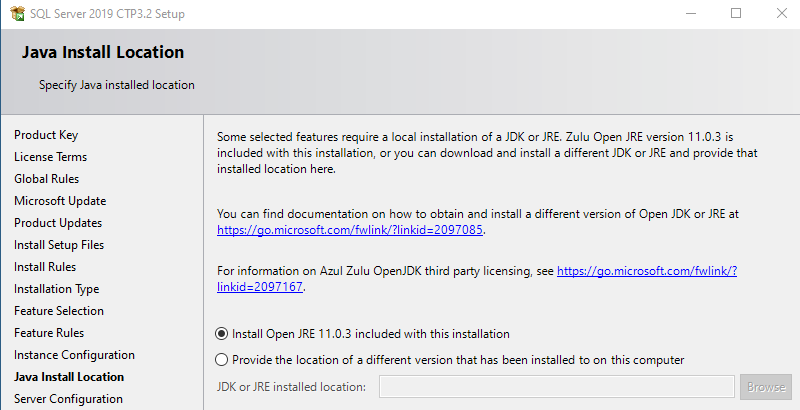
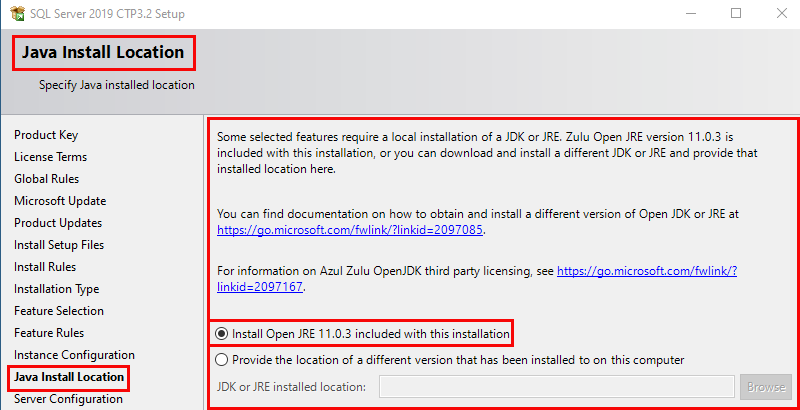
New blog-post - S2k19 CTP 3.2  - Java

diff --git a/content/posts/2019-08-03-sql-server-2019-ctp32--java.md b/content/posts/2019-08-03-sql-server-2019-ctp32--java.md
@@ -1,0 +1,153 @@
+---
+type: post
+layout: "post"
+title: "SQL Server 2019 CTP3.2 & Java"
+author: nielsb
+date: 2019-08-03T06:55:33+02:00
+comments: true
+highlight: true
+draft: false
+categories:
+  - SQL Server 2019
+  - SQL Server Extensibility Framework
+tags:
+  - SQL Server 2019
+  - R
+  - Python
+  - Java
+  - SQL Server Extensibility Framework
+description: SQL Server 2019 CTP 3.2 and Azule OpenJDK. 
+keywords:
+  - SQL Server 2019
+  - R
+  - Python
+  - Java
+  - SQL Server Extensibility Framework   
+---
+
+It seems that for each new SQL Server 2019 CTP release, there are changes to the Java extensions, and CTP 3.2 is no exception. Well, that is not exactly true as in CTP 3.2 release the changes are not about the extension and how we write code, but Java itself.
+
+One of the [announcements][1] of what is new in CTP 3.2 was that SQL Server now includes [Azul System's][2] Zulu Embedded right out of the box for all scenarios where we use Java in SQL Server, including Java extensibility. 
+
+So, in this post, we look at the impact, (if any), this has to how we use the Java extensibility framework in SQL Server 2019.
+
+<!--more-->
+
+First of all, I find Microsoft's change of stance related to Java very interesting as I remember back in the day the [battle][3] between Sun and Microsoft regarding Java and the subsequent Java vs .NET "war". 
+
+> **NOTE:** Around 1995/96 I attended a Microsoft event in London where Microsoft introduced what was to be Visual J++. It went under the code name "Jakarta". The MS people presenting at the conference explained why they chose that name: *Jakarta is the capital of Java*. That was not entirely true as Jakarta is the capital of Indonesia, but Java is the largest island, so...
+
+Anyway, let us get on with it, and see what happens when we install SQL Server 2019 CTP 3.2.
+
+## Installation
+
+You may remember from [SQL Server 2019 Extensibility Framework & Java - Hello World][5] that to enable Java in SQL Server 2019; you have to - during installation - choose the *Machine Learning Services* feature:
+
+![](/images/posts/sql_2k19_java_intro_install1.png)
+
+**Figure 1:** *Enable In-Database Machine Learning*
+
+In *Figure 1* we have chosen *Machine Learning Services* which ensures that the required components, (*Launchpad*, and so on), gets installed. In pre-CTP 3.2, we had to - in addition to choosing *Machine Learning Services* - also ensure that Java is installed on the box where we install the SQL Server instance.
+
+> **NOTE:** We also need to do other "stuff" if we want to enable Java, and I cover that below.
+
+When we install SQL Server CTP 3.2, we see something like so:
+
+![](/images/posts/s2k19_ctp32_java.png)
+
+**Figure 2:** *Java Feature Selection*
+
+What we see in *Figure 2* is:
+
+* The *Machine Learning Services* feature is now named *Machine Learning Services and Language Extensions*.
+* Java appears as a feature in the same way as R/Python.
+
+We choose Java as a feature, as in *Figure 2*, and after feature rules and instance configuration, we come to a new dialog; *Java Install Location*:
+
+![](/images/posts/s2k19_ctp32_java2.png)
+
+**Figure 3:** *Java Install Location*
+
+In the dialog, we see in *Figure 3*, how we have the ability to choose to install the Azule Zulu OpenJDK which is part of the SQL Server install. We choose the OpenJDK and continue with the installation.
+
+Eventually the installation finish, and if we look in the installation path of the instance we just installed, we see:
+
+![](/images/posts/s2k19_ctp32_openjdk.png)
+
+**Figure 4:** *Azule Zulu OpenJDK*
+
+If we drill down in the `AZUL-OpenJDK-JRE` directory, we see it is the directory for the Java JRE. So we now have Java installed, and theoretically, we should be able to execute Java code, exactly as we execute R/Python?
+
+## Post Install
+
+Well, to execute Java code is not as straightforward as in the previous paragraph even though Java is now installed. We still have to do some things:
+
+* Enable external scripts: `EXEC sp_configure 'external scripts enabled', 1`
+* Register Java as an external language in the database from where you want to execute your code: `CREATE EXTERNAL LANGUAGE ...`. Read more about it in [SQL Server 2019 Extensibility Framework & External Languages][6].
+* Deploy the Java external language extension SDK to the database above: `CREATE EXTERNAL LIBRARY ...`. Refer to [Java & SQL Server 2019 Extensibility Framework: The Sequel][7] for more about that.
+
+When the above is done, we deploy our code either via `CREATE EXTERNAL LIBRARY ...`, or have our code available in the `CLASSPATH`. Having done that we should be able to execute:
+
+```sql
+DECLARE @p1 int = 21;
+DECLARE @p2 int = 21;
+EXEC sp_execute_external_script
+  @language = N'Java'
+, @script = N'sql.JavaTest1'
+, @params = N'@x int, @y int'
+, @x = @p1
+, @y = @p2   
+GO
+```
+**Code Snippet 1:** *Execute Java Code*
+
+In *Code Snippet 1* we see that we want to `EXEC sp_execute_external_script` against some Java code deployed as a `.jar`, (this is the same code as in the [external languages][6] post). However, when we execute the result is like so:
+
+![](/images/posts/s2k19_ctp32_exec1.png)
+
+**Figure 5:** *Missing Environment Variable*
+
+So even though we explicitly said during the SQL installation that we want to use the included Java and it got installed, we still need to set the `JRE_HOME` variable. The installation does not do that for us.
+
+After we have created the `JRE_HOME` environment variable and set it to point to the `AZUL-OpenJDK-JRE` directory we see in *Figure 4*, we need to restart the *Launchpad* service, and then we can execute the code in *Code Snippet 1* again:
+
+![](/images/posts/s2k19_ctp32_exec2.png)
+
+**Figure 6:** *Success*
+
+Now everything works as we see in *Figure 6*. 
+
+## Scenarios
+
+Even though we explicitly choose the included Java in the installation, we still need to set up Java as in pre-CTP 3.2, so what does this give us? 
+
+It gives us peace of mind! Remember that Oracle is phasing out free support for Java, and I wonder how interested they are in solving issues with Java on SQL Server. If we use open source OpenJDK, we rely on the community for support, which may not be ideal in an enterprise production environment. So by using the included Java, we are guaranteed enterprise support - peace of mind!
+
+Does this then mean that we need to use the included Java? Not at all! Below follows some scenarios/options. All require what we did above; create external language, deploy the SDK, deploy your code:
+
+* Enable *Machine Learning Services and Language Extensions* only, (no Java): Ensure that your `JRE_HOME` environment variable points to whatever Java JRE you want to use.
+* Enable *Machine Learning Services and Language Extensions* including Java, (as per above): The `JRE_HOME` variable can point to some other Java JRE than Azul, even though the Azul JDK gets installed.
+
+What happens if I enable Java, but instead of choosing the included JRE as in *Figure 3*, I choose the second option: I provide the location of a different JRE? For Java in *Machine Learning Services and Language Extensions* that has no effect. You need to, as in all other scenarios, point the `JRE_HOME` variable to a valid JRE directory.
+
+> **NOTE:** It is good practice to whenever you change, (or first set), the `JRE_HOME` variable to restart the *Launchpad* service.
+
+## ~ Finally
+
+If you have comments, questions etc., please comment on this post or [ping][ma] me.
+
+[ma]: mailto:niels.it.berglund@gmail.com
+[mp]: https://blog.acolyer.org
+[iq]: https://www.infoq.com/
+[ew]: http://sqlonice.com/
+[re]: http://blog.revolutionanalytics.com
+[sqsk]: https://www.sqlskills.com
+[ba]: https://twitter.com/bob_albright
+
+[1]: https://cloudblogs.microsoft.com/sqlserver/2019/07/24/free-supported-java-in-sql-server-2019-is-now-available/
+[2]: https://www.azul.com/
+[3]: https://en.wikipedia.org/wiki/Microsoft_Java_Virtual_Machine
+[4]: https://www.cnet.com/news/ms-debuts-visual-j/
+[5]: {{< relref "2018-12-02-sql-server-2019-extensibility-framework--java---hello-world.md" >}}
+[6]: {{< relref "2019-06-06-sql-server-2019-extensibility-framework--external-languages.md" >}}
+[7]: {{< relref "2019-05-26-java--sql-server-2019-extensibility-framework-the-sequel.md" >}}

diff --git a/content/s2k19_ext_framework_java.md b/content/s2k19_ext_framework_java.md
@@ -17,6 +17,8 @@ This is a collection of posts about the Java language extensions introduced in *
 * [SQL Server 2019, Java & External Libraries - I][5]: Part I of a couple of posts where we look at how we can deploy Java code to the database, so it can be loaded from there.
 * [SQL Server 2019, Java & External Libraries - II][6]: Part II of a couple of posts where we look at how we can deploy Java code to the database, so it can be loaded from there. In this post we look at how to use `CREATE EXTERNAL LIBRARY` to deploy Java code without having access to SQL Server's filesystem.
 * [Java & SQL Server 2019 Extensibility Framework: The Sequel][7]. We look at the implications of the introduction of the Java Language Extension SDK.
+* [SQL Server 2019 Extensibility Framework & External Languages][8]. We look at SQL Server 2019 Extensibility Framework and Language Extensions.
+* [SQL Server 2019 CTP3.2 & Java][9]. SQL Server 2019 CTP 3.2 and Azule OpenJDK.
 
 
 
@@ -28,3 +30,5 @@ This is a collection of posts about the Java language extensions introduced in *
 [5]: {{< relref "2019-03-10-sql-server-2019-java--external-libraries---i.md" >}}
 [6]: {{< relref "2019-03-17-sql-server-2019-java--external-libraries---ii.md" >}}
 [7]: {{< relref "2019-05-26-java--sql-server-2019-extensibility-framework-the-sequel.md" >}}
+[8]: {{< relref "2019-06-06-sql-server-2019-extensibility-framework--external-languages.md" >}}
+[9]: {{< relref "2019-08-03-sql-server-2019-ctp32--java.md" >}}
